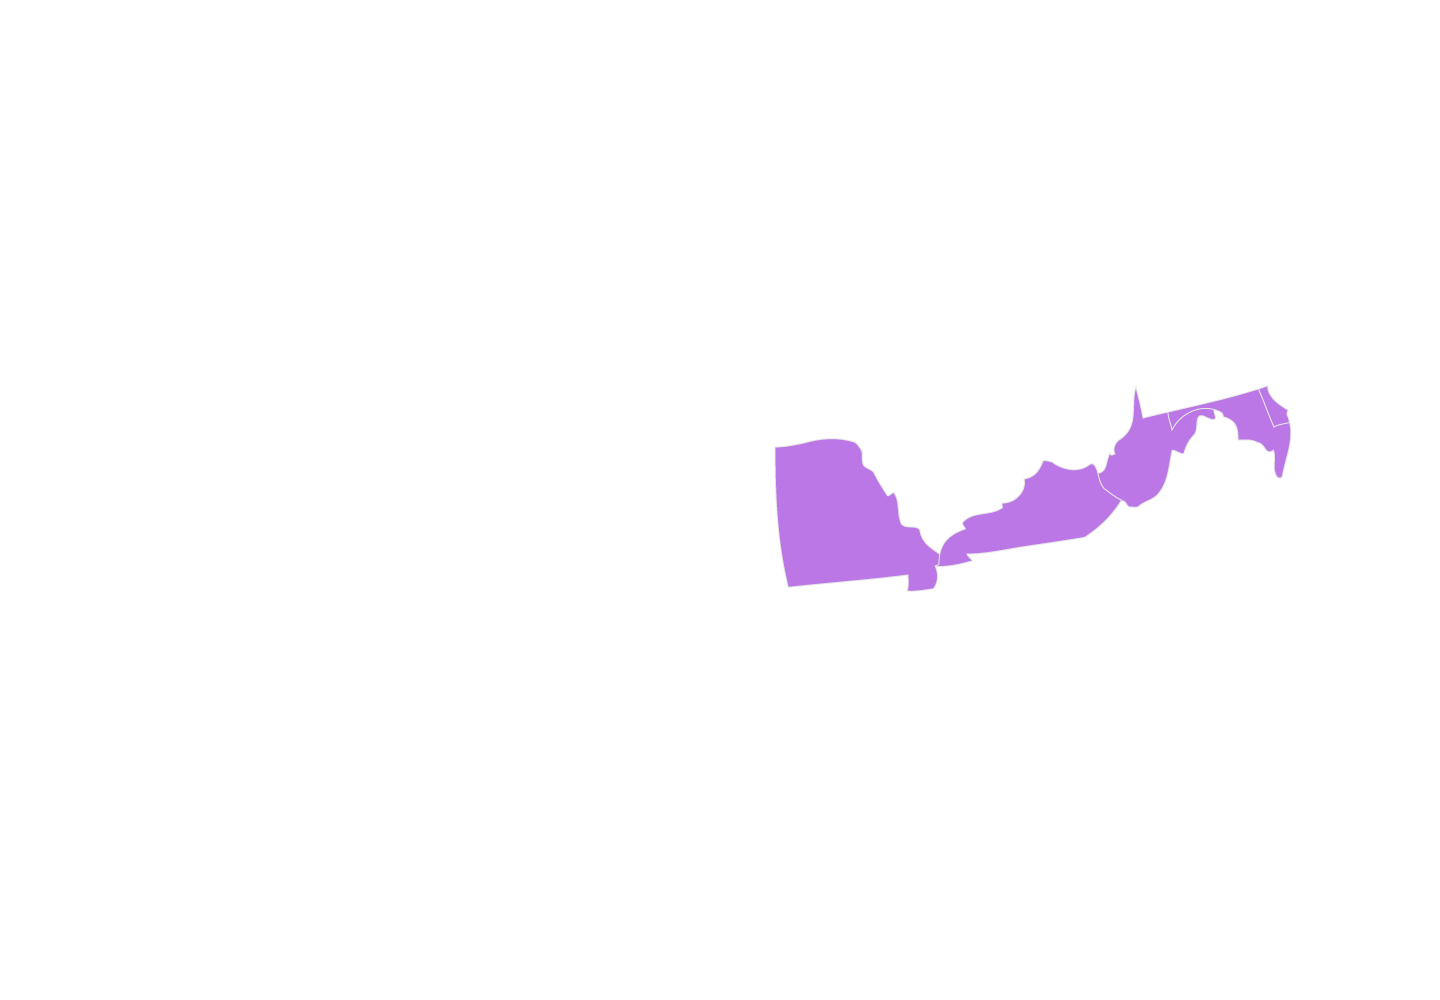
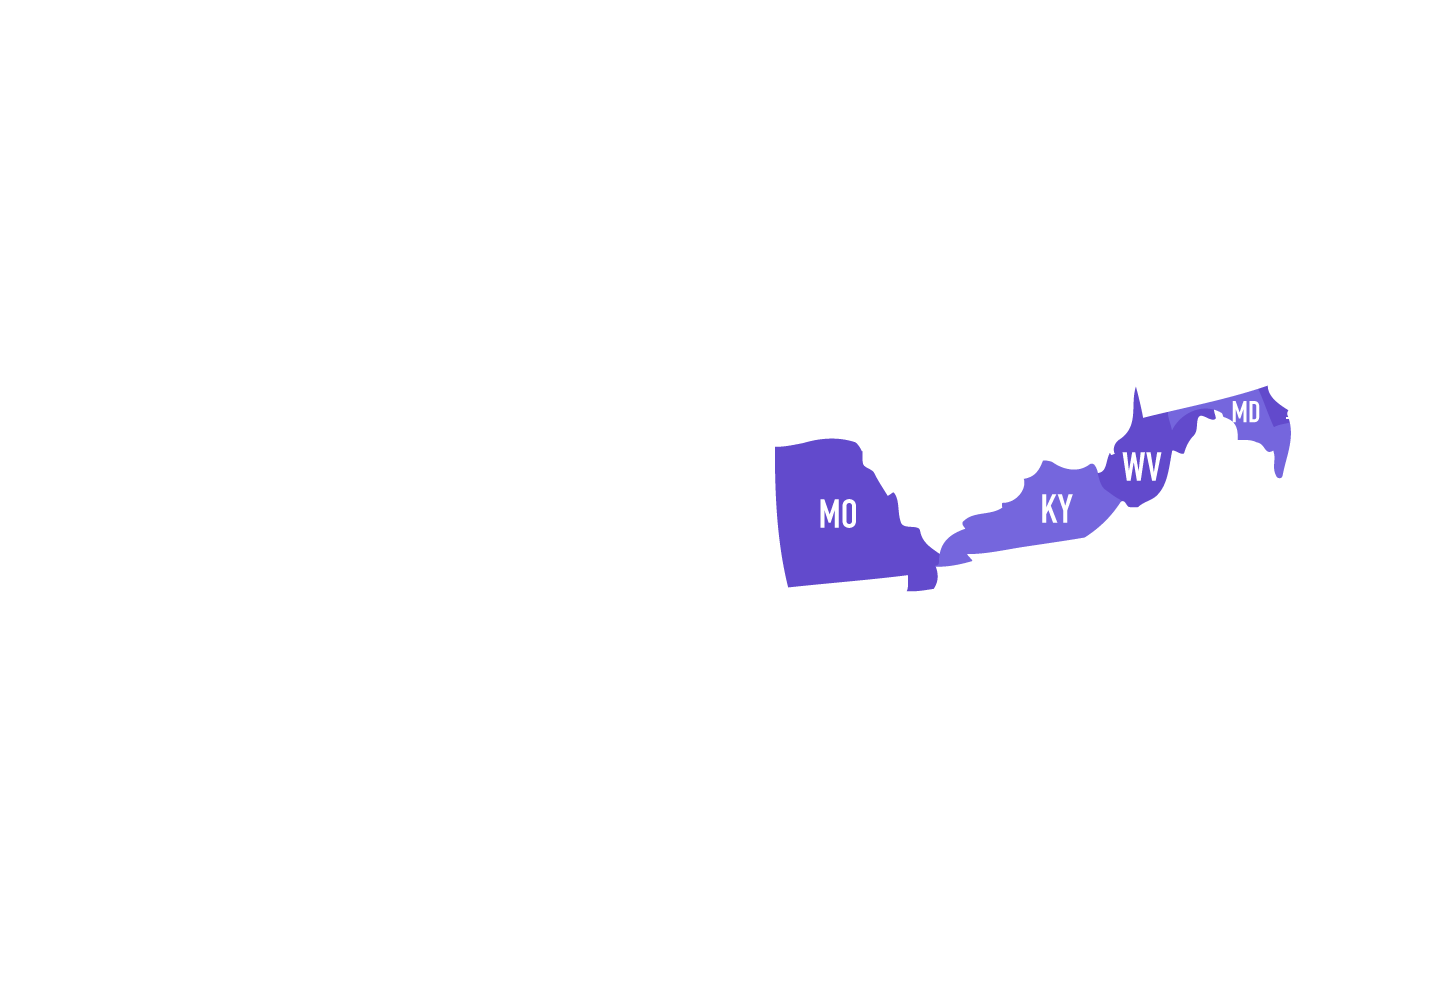
finished pd 5

Changed region(s): [[0.5312, 0.372, 0.9062, 0.589]]

diff --git a/period5.html b/period5.html
@@ -65,7 +65,8 @@
             <img src="assets/media/periods/p5-1.png" width="100%" class="fade1" alt="Union" draggable="false">
             <img src="assets/media/periods/p5-2.png" width="100%" class="fade2" alt="Confederate" draggable="false">
             <img src="assets/media/periods/p5-3.png" width="100%" class="fade3" alt="Border States" draggable="false">
-            <img src="assets/media/periods/p5-4.png" width="100%" class="fade4" alt="Unorganized Territory" draggable="false">
+            <img src="assets/media/periods/p5-4.png" width="100%" class="fade4" alt="Organized Territory" draggable="false">
+            <img src="assets/media/periods/p5-5.png" width="100%" class="fade5" alt="Key" draggable="false">
         </div>
 
 		<h1 class="periodTitles period-title">Period 5 1848-1877</h1>
